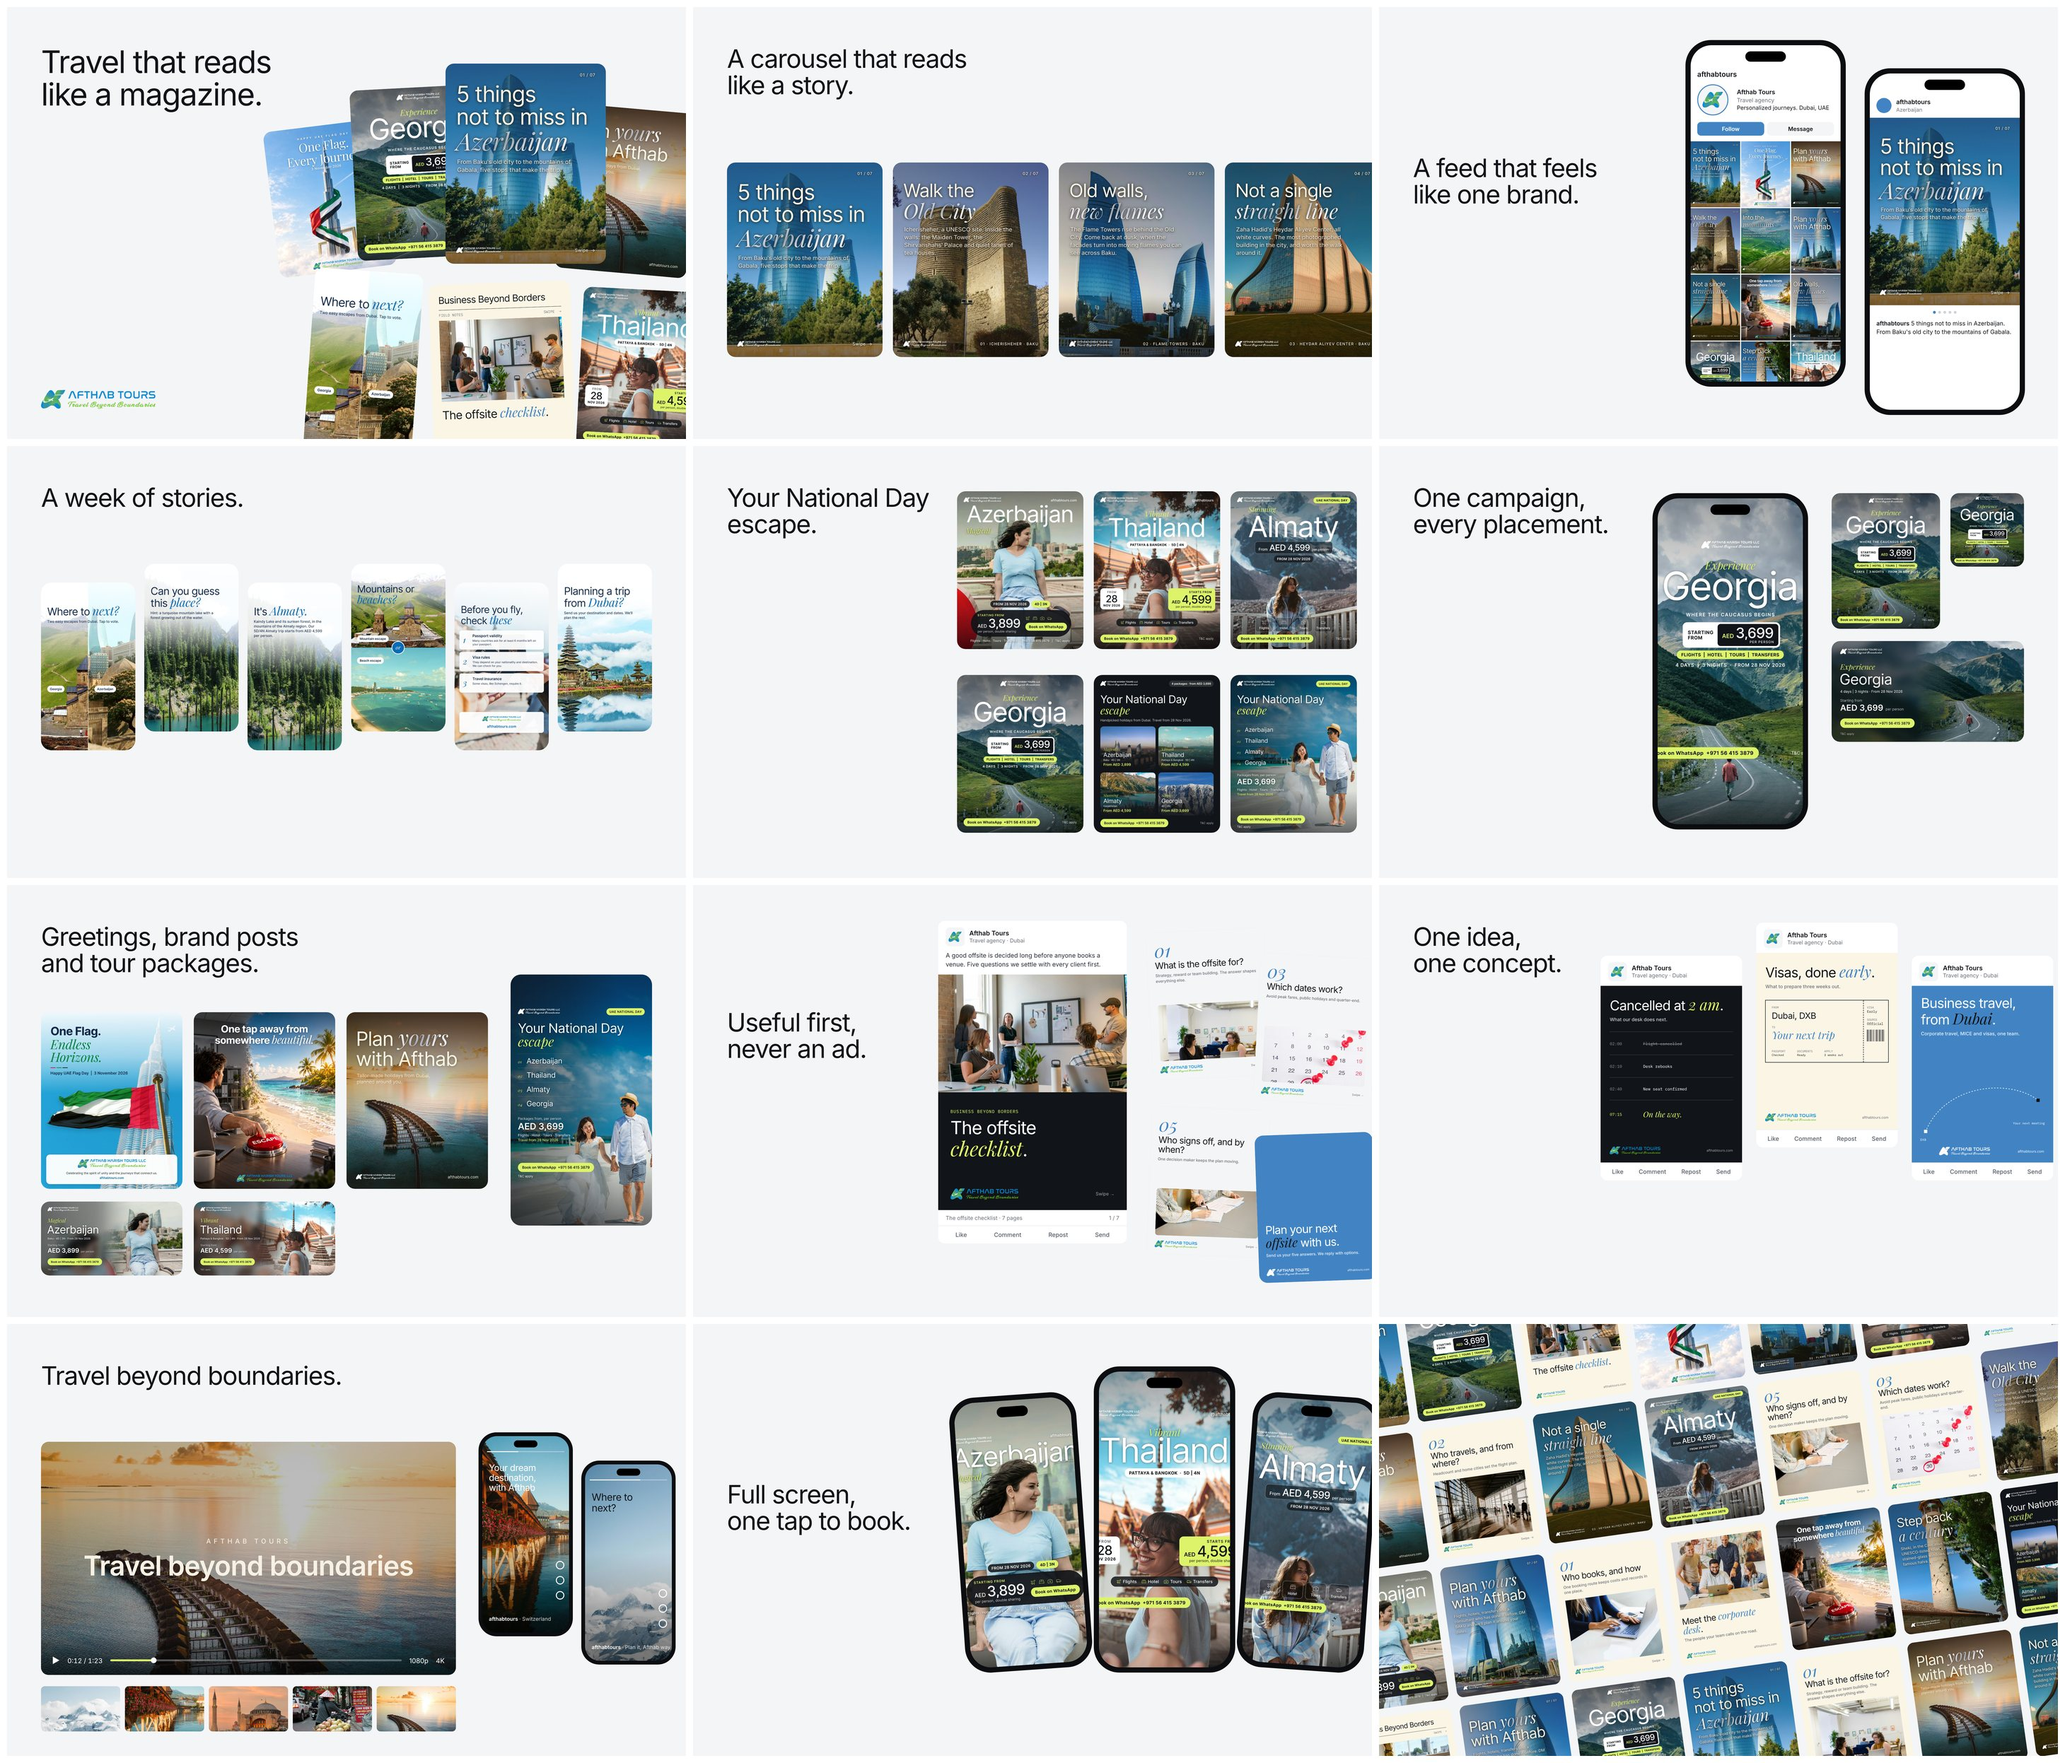
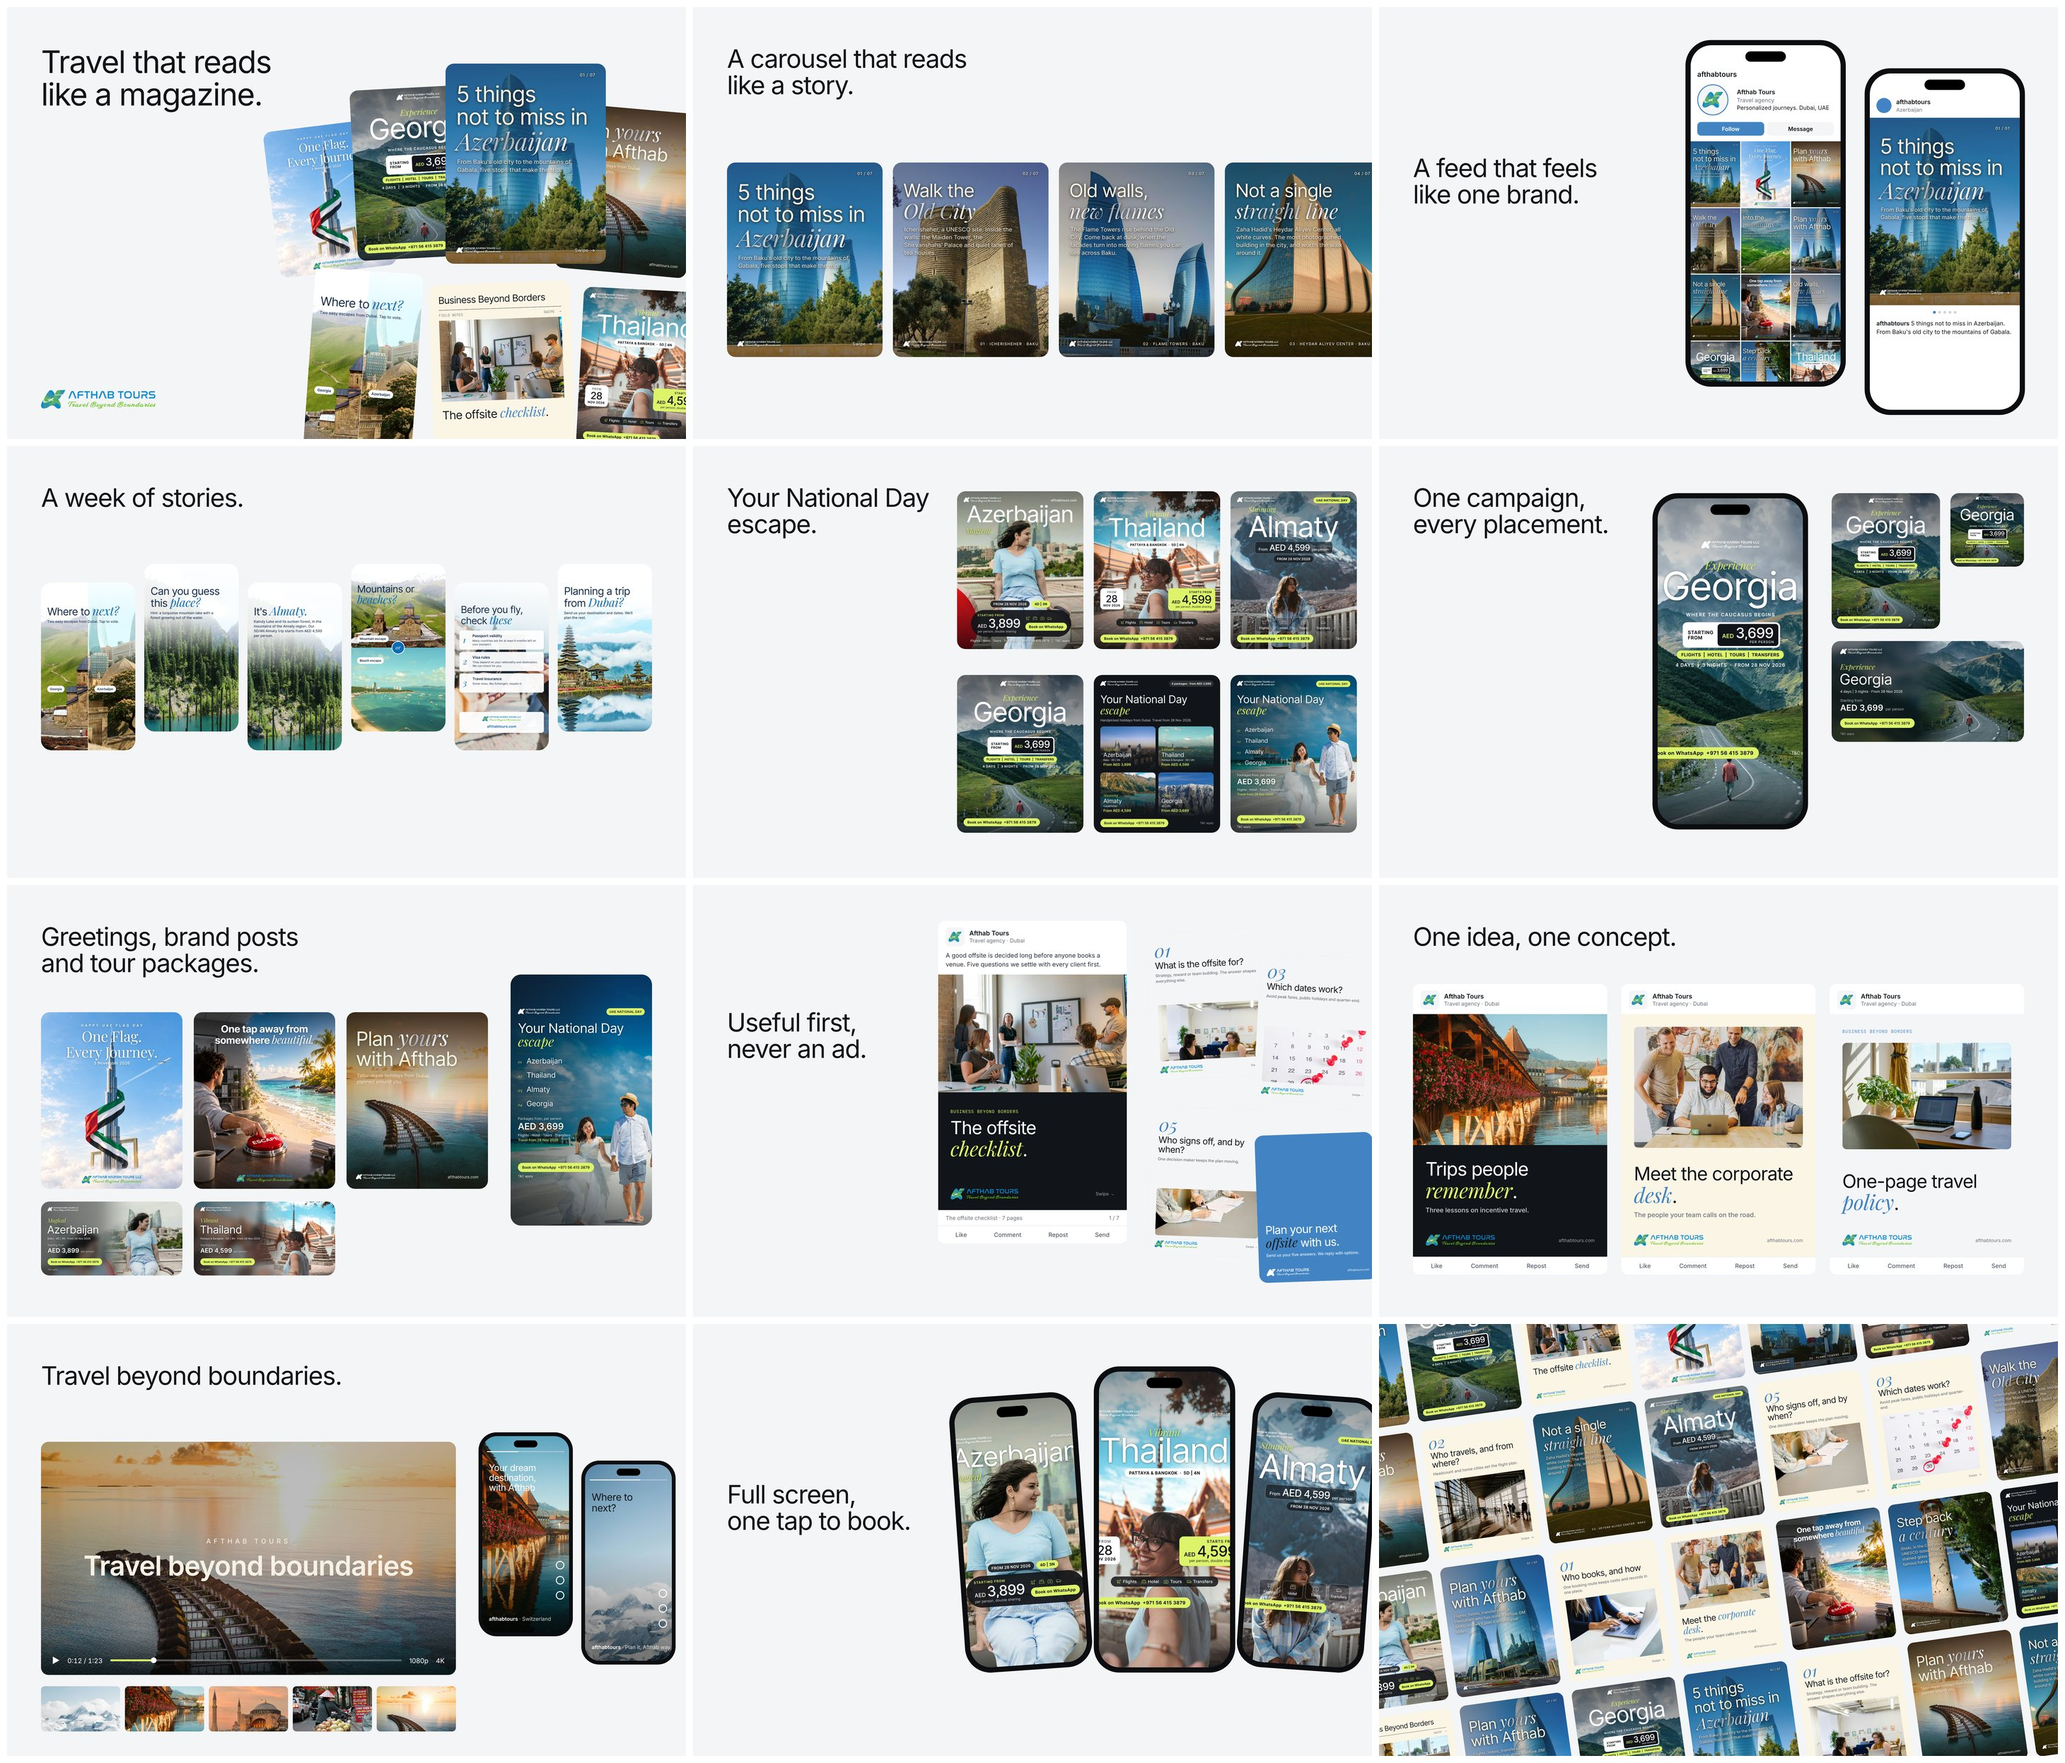
Home hero heading a little higher; Afthab mockups: chosen Flag Day post, LinkedIn posts with photos
Claude-Session: https://claude.ai/code/session_011BdSE2fEeiEv9ZgoYmWAPn

Changed region(s): [[0.6856, 0.5249, 0.9973, 0.741], [0.0, 0.5557, 0.0935, 0.6792]]

diff --git a/design/case-studies/afthab-tours/mock.html b/design/case-studies/afthab-tours/mock.html
@@ -136,7 +136,7 @@ body{background:#888;font-family:Inter,sans-serif;color:var(--ink)}
 <!-- 07 Flag Day -->
 <section class="m light" id="m07" style="background:var(--mist)">
   <div class="tl"><h2 class="h">Greetings, brand posts<br>and tour packages.</h2></div>
-  <div class="card" style="left:72px;top:270px;width:300px;height:375px"><img src="cut/959_35.jpg"></div>
+  <div class="card" style="left:72px;top:270px;width:300px;height:375px"><img src="cut/968_35.jpg"></div>
   <div class="card" style="left:396px;top:270px;width:300px;height:375px"><img src="cut/escape.jpg"></div>
   <div class="card" style="left:720px;top:270px;width:300px;height:375px"><img src="cut/plan.jpg"></div>
   <div class="card" style="left:1068px;top:190px;width:300px;height:533px;border-radius:22px"><img src="cut/st-mv.jpg"></div>
@@ -168,33 +168,17 @@ body{background:#888;font-family:Inter,sans-serif;color:var(--ink)}
 
 <!-- 09 LinkedIn posts -->
 <section class="m light" id="m09" style="background:var(--mist)">
-  <div class="tl"><h2 class="h">One idea,<br>one concept.</h2></div>
-  <div class="post" style="left:470px;top:150px;width:300px">
-    <div class="hd"><div class="av"><img src="src/mark.png"></div><p class="nm">Afthab Tours<span>Travel agency · Dubai</span></p></div>
-    <div class="pg ink" style="--u:2.78px"><div class="in"><p class="hl">Cancelled at <i>2 am</i>.</p><p class="sl" style="margin-top:.7em">What our desk does next.</p>
-      <div style="margin-top:7em"><p class="row"><b>02:00</b><span style="text-decoration:line-through;color:#8d949d">Flight cancelled</span></p><p class="row"><b>02:10</b><span>Desk rebooks</span></p><p class="row"><b>02:40</b><span>New seat confirmed</span></p><p class="row" style="align-items:center"><b style="color:var(--lime)">07:15</b><span style="font-family:'Playfair Display',serif;font-style:italic;font-size:1.9em;color:var(--lime)">On the way.</span></p></div></div>
-      <div class="ft"><img src="src/logo.png"><span>afthabtours.com</span></div></div>
-    <div class="act"><span>Like</span><span>Comment</span><span>Repost</span><span>Send</span></div>
-  </div>
-  <div class="post" style="left:800px;top:80px;width:300px">
-    <div class="hd"><div class="av"><img src="src/mark.png"></div><p class="nm">Afthab Tours<span>Travel agency · Dubai</span></p></div>
-    <div class="pg ivy" style="--u:2.78px"><div class="in"><p class="hl">Visas, done <i>early</i>.</p><p class="sl" style="margin-top:.7em">What to prepare three weeks out.</p>
-      <div style="margin-top:8em;border:1.5px solid var(--ink);display:flex;font-family:'IBM Plex Mono',monospace">
-        <div style="flex:1;padding:4em 4.5em"><p style="font-size:2.2em;color:var(--graphite)">FROM</p><p style="font-family:Inter;font-size:6.6em;letter-spacing:-.02em;margin-top:.1em">Dubai, DXB</p><p style="font-size:2.2em;color:var(--graphite);margin-top:1.6em">TO</p><p style="font-family:'Playfair Display',serif;font-style:italic;font-size:8em;color:var(--blue);line-height:1.1">Your next trip</p>
-          <div style="display:flex;gap:4em;margin-top:3em;font-size:2.2em"><p><span style="color:var(--graphite)">PASSPORT</span><br>Checked</p><p><span style="color:var(--graphite)">DOCUMENTS</span><br>Ready</p><p><span style="color:var(--graphite)">APPLY</span><br>3 weeks out</p></div></div>
-        <div style="width:19em;border-left:1.5px dashed var(--ink);padding:4em 2.6em;font-size:1em"><p style="font-size:2.2em;color:var(--graphite)">VISA</p><p style="font-size:2.6em">Early</p><p style="font-size:2.2em;color:var(--graphite);margin-top:1.4em">SOURCE</p><p style="font-size:2.6em">Official</p>
-          <div style="margin-top:3em;height:9em;background:repeating-linear-gradient(90deg,#111418 0 .5em,transparent .5em 1.1em,#111418 1.1em 1.4em,transparent 1.4em 2.3em)"></div></div></div></div>
-      <div class="ft"><img src="src/logo.png"><span>afthabtours.com</span></div></div>
-    <div class="act"><span>Like</span><span>Comment</span><span>Repost</span><span>Send</span></div>
-  </div>
-  <div class="post" style="left:1130px;top:150px;width:300px">
-    <div class="hd"><div class="av"><img src="src/mark.png"></div><p class="nm">Afthab Tours<span>Travel agency · Dubai</span></p></div>
-    <div class="pg blu" style="--u:2.78px"><div class="in"><p class="hl">Business travel, from <i>Dubai</i>.</p><p class="sl" style="margin-top:.7em">Corporate travel, MICE and visas, one team.</p></div>
-      <svg viewBox="0 0 300 150" style="position:absolute;left:7em;right:7em;bottom:20em;width:calc(100% - 14em)"><path d="M12 138 C 60 20, 220 10, 286 62" fill="none" stroke="#fff" stroke-width="1.4" stroke-dasharray="2 5" stroke-linecap="round"/><rect x="8" y="134" width="8" height="8" fill="#fff"/><rect x="282" y="58" width="8" height="8" fill="#111418"/></svg>
-      <p class="mono" style="position:absolute;left:2.8em;bottom:6.9em;color:#fff;font-size:2.3em">DXB</p><p class="mono" style="position:absolute;right:2.8em;bottom:12.4em;color:#fff;font-size:2.3em;text-transform:none;letter-spacing:.02em">Your next meeting</p>
-      <div class="ft" style="bottom:5.4em"><img src="src/logo.png" style="filter:brightness(0) invert(1);margin-left:14em"><span>afthabtours.com</span></div></div>
-    <div class="act"><span>Like</span><span>Comment</span><span>Repost</span><span>Send</span></div>
-  </div>
+  <div class="tl"><h2 class="h">One idea, one concept.</h2></div>
+  <div class="post" style="left:72px;top:210px;width:412px"><div class="hd"><div class="av"><img src="src/mark.png"></div><p class="nm">Afthab Tours<span>Travel agency · Dubai</span></p></div>
+    <div class="pg ink" style="--u:3.8px"><img src="photo/p5.jpg" style="position:absolute;inset:0 0 auto 0;width:100%;height:54%;object-fit:cover;object-position:50% 40%">
+      <div class="in" style="top:60%"><p class="hl">Trips people <i>remember</i>.</p><p class="sl" style="margin-top:.7em">Three lessons on incentive travel.</p></div><div class="ft"><img src="src/logo.png"><span>afthabtours.com</span></div></div><div class="act"><span>Like</span><span>Comment</span><span>Repost</span><span>Send</span></div></div>
+  <div class="post" style="left:514px;top:210px;width:412px"><div class="hd"><div class="av"><img src="src/mark.png"></div><p class="nm">Afthab Tours<span>Travel agency · Dubai</span></p></div>
+    <div class="pg ivy" style="--u:3.8px"><img src="cut/ph-desk.jpg" style="position:absolute;left:7em;top:7em;width:calc(100% - 14em);height:50%;object-fit:cover;border-radius:2.4em">
+      <div class="in" style="top:62%"><p class="hl">Meet the corporate <i>desk</i>.</p><p class="sl" style="margin-top:.7em">The people your team calls on the road.</p></div><div class="ft"><img src="src/logo.png"><span>afthabtours.com</span></div></div><div class="act"><span>Like</span><span>Comment</span><span>Repost</span><span>Send</span></div></div>
+  <div class="post" style="left:956px;top:210px;width:412px"><div class="hd"><div class="av"><img src="src/mark.png"></div><p class="nm">Afthab Tours<span>Travel agency · Dubai</span></p></div>
+    <div class="pg mst" style="--u:3.8px"><div class="in"><p class="mono">Business beyond borders</p></div>
+      <img src="cut/ph-policy.jpg" style="position:absolute;left:7em;top:16em;width:calc(100% - 14em);height:44%;object-fit:cover;border-radius:2.4em">
+      <div class="in" style="top:65%"><p class="hl">One-page travel <i>policy</i>.</p></div><div class="ft"><img src="src/logo.png"><span>afthabtours.com</span></div></div><div class="act"><span>Like</span><span>Comment</span><span>Repost</span><span>Send</span></div></div>
 </section>
 
 <!-- 10 Brand film and reels -->

diff --git a/src/components/sections/Hero.tsx b/src/components/sections/Hero.tsx
@@ -294,7 +294,7 @@ export function Hero({
         accent={section.accent}
         text={section.text}
         // Full screen: the heading fills the first screen, centred above the floating bar.
-        className={full ? "min-h-[calc(100svh-var(--header-h)-clamp(64px,calc(3.14vw+52px),112px))] justify-center pb-[clamp(96px,12vh,160px)]" : undefined}
+        className={full ? "min-h-[calc(100svh-var(--header-h)-clamp(64px,calc(3.14vw+52px),112px))] justify-center pb-[clamp(96px,12vh,160px)]" + (glow ? " -translate-y-[clamp(12px,3.5svh,44px)]" : "") : undefined}
       >
         {section.button?.href && section.button.label && (
           <ButtonLink href={section.button.href} className="mt-[clamp(28px,calc(1.7vw+21.6px),54px)]">
